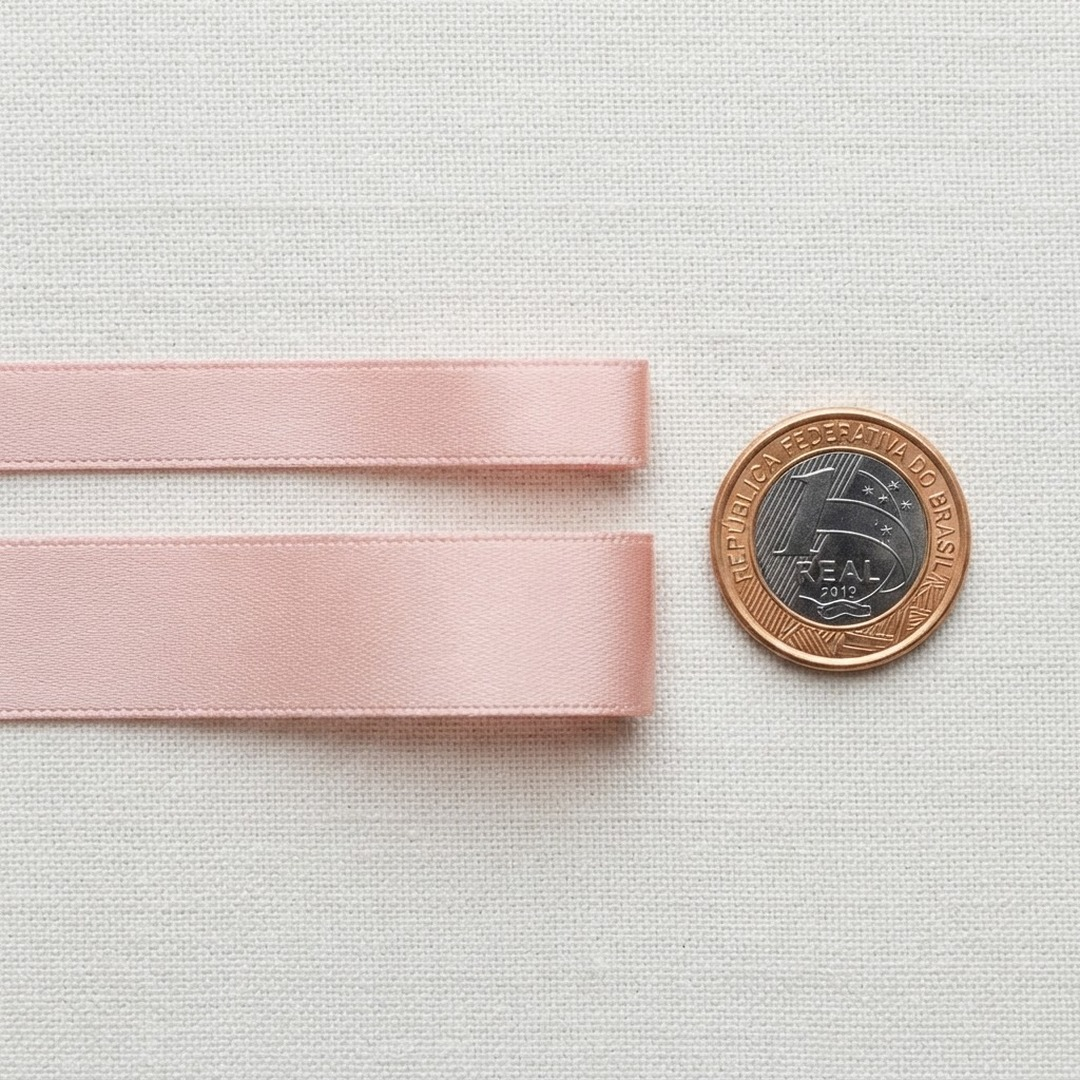
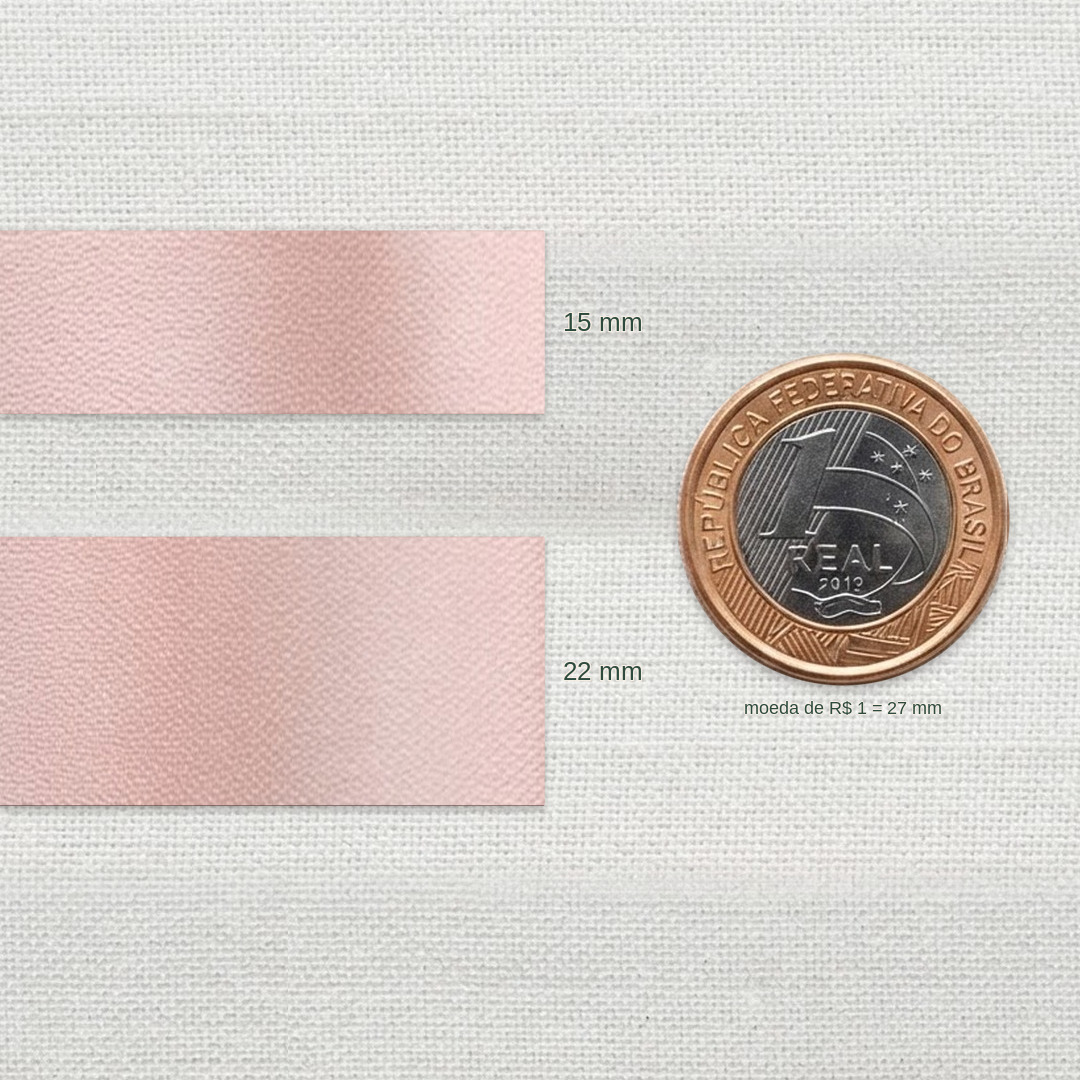
docs(social): corrige a escala 15/22 mm das fitas por medição
A imagem gerada por IA tinha a proporção errada em relação à moeda
de R$ 1. As fitas foram recompostas de forma determinística (PIL)
na altura 15 e 22 × (diâmetro medido / 27). Escala verificada por
medição no JPEG final. O .gitignore não foi alterado.

diff --git a/criativos/anuncios/2026-11-natal/manifest.md b/criativos/anuncios/2026-11-natal/manifest.md
@@ -6,7 +6,7 @@ Geração: Magic Patterns `generate_image`, OS `1bQLQVdU8LfJL1sqGFexPU`, convers
 Regras comuns a todas as imagens: **IA: sim**. Sem foto real. Sem texto pedido na cena (a ferramenta do Magic Patterns deforma letra). Sem logo, marca d’água ou personagem de terceiro. Paleta pérola `#F6EDE3`, dourado `#C9A227`, pinho discreto, rosa bebê suave. Fotos de MakerWorld serviram só como referência de forma, não foram copiadas.
 **Pangram: pendente** em todas (textos e imagens), até existir `PANGRAM_API_KEY`.
 
-Cada peça tem dois recortes: `*-1080x1080.jpg` (centro) e `*-1080x1350.jpg` (recorte 4:5, um pouco mais do topo). Originais no CDN do Magic Patterns, listados abaixo.
+Cada peça tem dois recortes: `*-1080x1080.jpg` (centro) e `*-1080x1350.jpg` (recorte 4:5, um pouco mais do topo). Originais no CDN do Magic Patterns, listados abaixo. Exceção: `fitas-escala-15-22` foi recomposta de forma determinística nas duas proporções (o 1080×1080 não é um recorte do 1080×1350); ver a linha e a nota de medição.
 
 O metadata das imagens no OS não guarda o texto exato da chamada `generate_image`. A coluna “Prompt (cena pedida)” reconstitui a cena que foi pedida na geração, a partir do briefing e do produto.
 
@@ -39,11 +39,25 @@ O metadata das imagens no OS não guarda o texto exato da chamada `generate_imag
 | placa-religiosa | Placa de batizado, comunhão ou crisma | Cream standing plaque with a raised cross and dove, smooth blank panel (no letters), gold edge, blush ribbon, respectful still life. | Desenho TuttiBom (sem STL de terceiro) | https://cdn.magicpatterns.com/patterns/generated-images/eb3d95c9-21a2-4b04-bd9d-b0ebf24b0cd2.jpg |
 | chaveiro-padre-cicero | Chaveiro Padre Cícero | Small stylized 3D-printed keychain of Padre Cícero, adult proportions, traditional hat and cassock, visible print layers, not a photograph, not Funko, no engraved name, blush ribbon. (Houve uma 1ª geração mais infantil; usamos a 2ª.) | [3276192](https://makerworld.com/en/models/3276192-padre-cicero-keychain-tiolira) — CC BY-ND, @tiolira (peça como está) | https://cdn.magicpatterns.com/patterns/generated-images/592b6788-5123-43c0-a9d2-d6b07ef7494b.jpg |
 
-| fitas-escala-15-22 | Escala das fitas 15 mm e 22 mm | Top-down still life of two narrow blush satin gift ribbons in true relative scale beside a Brazilian 1-real coin (27 mm), 15 mm thinner, 22 mm slightly narrower than the coin, no lettering, no sash. | Fitas TuttiBom (não é modelo MakerWorld). Só 15 mm e 22 mm. | https://cdn.magicpatterns.com/patterns/generated-images/9d226e6c-791d-4290-b2df-7724a0c62c0c.jpg |
+| fitas-escala-15-22 | Escala das fitas 15 mm e 22 mm | **Escala verificada por medição (16/11/2026).** A imagem gerada por IA tinha a proporção errada: o anel externo da moeda de R$ 1 mede 331,00 px na foto original (não ~245 px; essa leitura subestimava o anel dourado, e a moeda encostava na borda direita), e as fitas mediam 157,0 px (~12,8 mm) e 274,4 px (~22,4 mm), razão 1,75 em vez de 22/15 = 1,47. Recomposta de forma determinística com Python/PIL: altura da fita = 15 ou 22 × (diâmetro medido / 27), com rótulos discretos «15 mm», «22 mm» e «moeda de R$ 1 = 27 mm». No JPEG final 1080×1350: moeda 330,50 px (12,2407 px/mm), fita 15 mm = 183,35 px (14,98 mm), fita 22 mm = 268,89 px (21,97 mm), razão 1,4665 (alvo 1,4667). A moeda e o linho vêm da foto de origem; as fitas foram desenhadas na escala medida, sem confiar na IA para a largura. | Fitas TuttiBom. Só 15 mm e 22 mm. | Foto de origem (moeda e linho): https://cdn.magicpatterns.com/patterns/generated-images/9d226e6c-791d-4290-b2df-7724a0c62c0c.jpg |
 | fitas-arvore | Fitas na árvore de Natal | Christmas tree with narrow blush and cream satin gift ribbons and small bows, never a wide sash, no lettering. | Fitas TuttiBom, 15 mm ou 22 mm. | https://cdn.magicpatterns.com/patterns/generated-images/6b83d081-4259-470b-a5a6-f74464758263.jpg |
 | fitas-presentes | Laços em presentes | Cream gift boxes tied with narrow blush satin ribbons and bows, pine sprig, Christmas table, no lettering. | Fitas TuttiBom, 15 mm ou 22 mm. | https://cdn.magicpatterns.com/patterns/generated-images/d1c45108-5e50-4982-bc6e-950b5bc9bcfa.jpg |
 | fitas-peca-3d | Fita numa peça 3D | Small cream 3D-printed box tied with a narrow blush satin ribbon, pine, Christmas mood, no lettering. | Fita TuttiBom em peça 3D. | https://cdn.magicpatterns.com/patterns/generated-images/f21aefed-f772-48ca-b6a6-b51018c22bc3.jpg |
 | fitas-embalagem | Fita na embalagem | Cream paper wrapping or bag closed with a narrow blush satin bow, gold bauble and pine, no lettering. | Fitas TuttiBom, 15 mm ou 22 mm. | https://cdn.magicpatterns.com/patterns/generated-images/89967ae3-2cba-437e-916f-f8b2d964eb7f.jpg |
+
+
+## Escala das fitas — medição (16/11/2026, America/Sao_Paulo)
+
+`fitas-escala-15-22` é a única peça desta pasta cuja proporção foi corrigida fora do gerador de imagens. Método: detecção do anel dourado externo da moeda de R$ 1 (27 mm) por transição de cor ao longo de 360 raios; diâmetro na fonte = 331,00 px; fitas sintéticas com textura de cetim da própria foto, na altura 15 × (331/27) e 22 × (331/27); verificação no arquivo final.
+
+| Arquivo | Moeda (px) | Fita 15 mm (px / mm) | Fita 22 mm (px / mm) | Razão |
+|---|---|---|---|---|
+| fonte IA (antes) | 331,00 | 157,0 / 12,81 | 274,4 / 22,38 | 1,75 |
+| `fitas-escala-15-22-1080x1350.jpg` | 330,50 | 183,35 / 14,98 | 268,89 / 21,97 | 1,4665 |
+| `fitas-escala-15-22-1080x1080.jpg` | 330,50 | 183,35 / 14,98 | 268,88 / 21,97 | 1,4665 |
+
+Alvo: 22/15 = 1,4667. Desvio da moeda no arquivo final: 0,50 px (0,15 %). As faixas CSS da página `/fitas` repetem 15 mm e 22 mm em proporção (não são tamanho físico garantido em qualquer tela). As fotos decorativas (árvore, presentes, peça 3D, embalagem) não pretendem ser escala; foram revistas e não mostram fita larga tipo faixa, então não foram trocadas.
+
 
 Contagem: 30 stems × 2 tamanhos = **60 arquivos JPEG**, mais este `manifest.md`.
 
